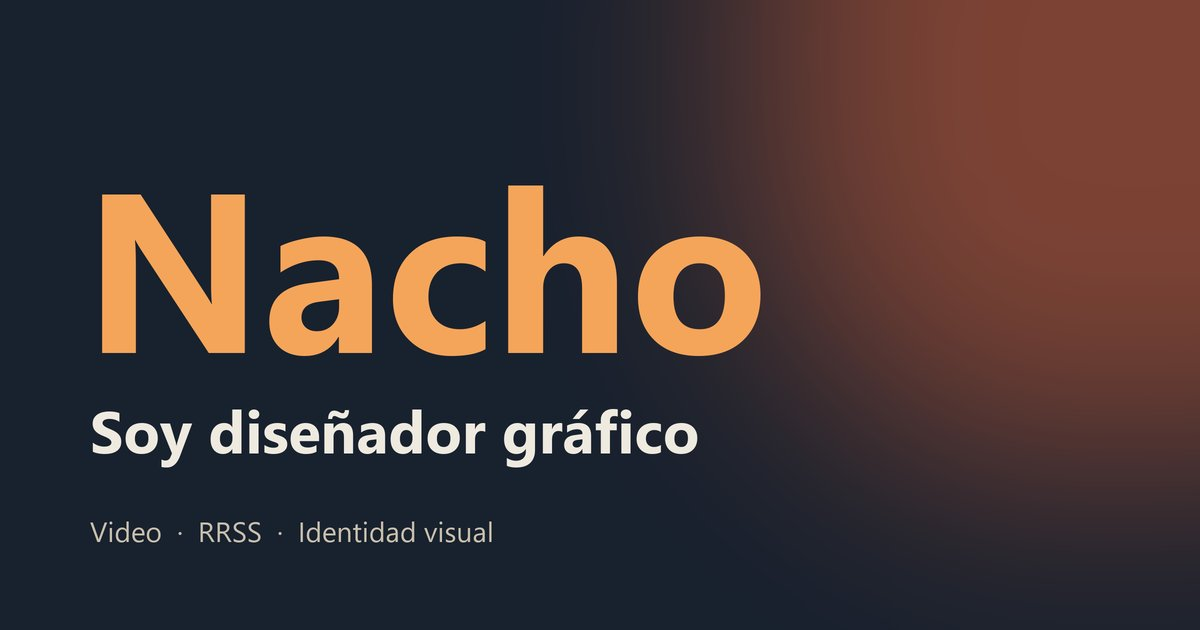
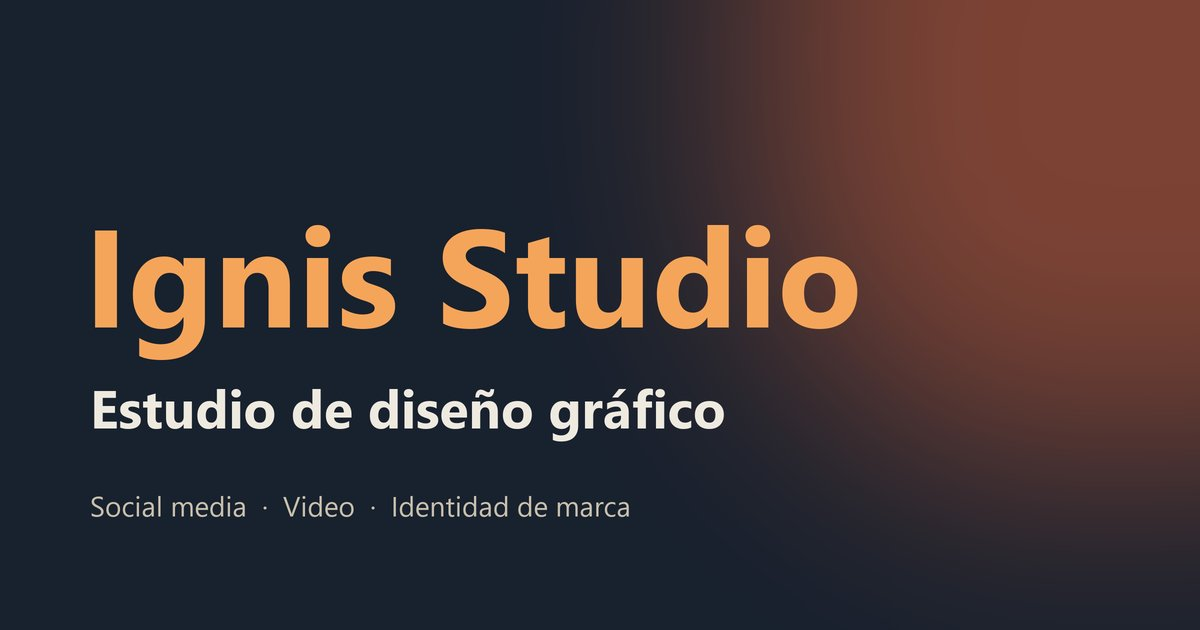
La marca pasa a llamarse Ignis Studio; se quita la etiqueta del inicio

Changed region(s): [[0.0617, 0.2714, 0.74, 0.573], [0.0617, 0.6032, 0.6167, 0.754], [0.0617, 0.7841, 0.5242, 0.8746]]

diff --git a/build.js b/build.js
@@ -527,7 +527,7 @@ function paginaInicio(site, projects) {
     ${herramientas(site, 'Herramientas con las que trabajo')}
   </div>
   <div class="hero__visual">
-    ${foto && exists(foto) ? `<img src="/${esc(foto)}" alt="Retrato de ${esc(site.nombre)}"${sizeAttrs(foto)} decoding="async">` : ''}
+    ${foto && exists(foto) ? `<img src="/${esc(foto)}" alt="Retrato del diseñador de ${esc(site.nombre)}"${sizeAttrs(foto)} decoding="async">` : ''}
     ${Object.values(CATEGORIAS).map((c) => `<span class="hero__chip">${c}</span>`).join('')}
   </div>
 </section>
@@ -747,7 +747,7 @@ function paginaSobreMi(site) {
 <section class="sobre">
   ${
     s.foto && exists(s.foto)
-      ? `<img class="sobre__foto" src="/${esc(s.foto)}" alt="Retrato de ${esc(site.nombre)}"${sizeAttrs(s.foto)} decoding="async">`
+      ? `<img class="sobre__foto" src="/${esc(s.foto)}" alt="Retrato del diseñador de ${esc(site.nombre)}"${sizeAttrs(s.foto)} decoding="async">`
       : ''
   }
   <div class="sobre__texto">

diff --git a/assets/css/styles.css b/assets/css/styles.css
@@ -312,6 +312,7 @@ main,
 }
 
 .logo {
+  white-space: nowrap;
   display: inline-flex;
   align-items: center;
   gap: 0.55rem;
@@ -381,8 +382,8 @@ main,
 /* En móvil el logo ya lleva al inicio: se oculta ese enlace y todo se compacta */
 @media (max-width: 600px) {
   .header {
-    gap: 0.6rem;
-    padding: 0.4rem 0.4rem 0.4rem 1rem;
+    gap: 0.45rem;
+    padding: 0.4rem 0.4rem 0.4rem 0.85rem;
   }
 
   .nav a[href='/'] {
@@ -390,7 +391,7 @@ main,
   }
 
   .logo {
-    font-size: 1rem;
+    font-size: 0.86rem;
   }
 
   .logo::before {
@@ -398,8 +399,8 @@ main,
   }
 
   .nav {
-    gap: 0.8rem;
-    font-size: 0.8rem;
+    gap: 0.55rem;
+    font-size: 0.74rem;
   }
 
   .header__acciones {
@@ -407,8 +408,8 @@ main,
   }
 
   .header__cta {
-    padding: 0.5rem 0.85rem;
-    font-size: 0.8rem;
+    padding: 0.48rem 0.7rem;
+    font-size: 0.76rem;
   }
 
   .tema {

diff --git a/README.md b/README.md
@@ -1,4 +1,4 @@
-# Portafolio — Nacho
+# Portafolio — Ignis Studio
 
 Sitio estático (HTML, CSS y JS, sin frameworks ni base de datos). Las páginas se generan a partir de dos archivos de datos con un script de Node sin dependencias (`build.js`), que Vercel ejecuta solo en cada publicación.
 
